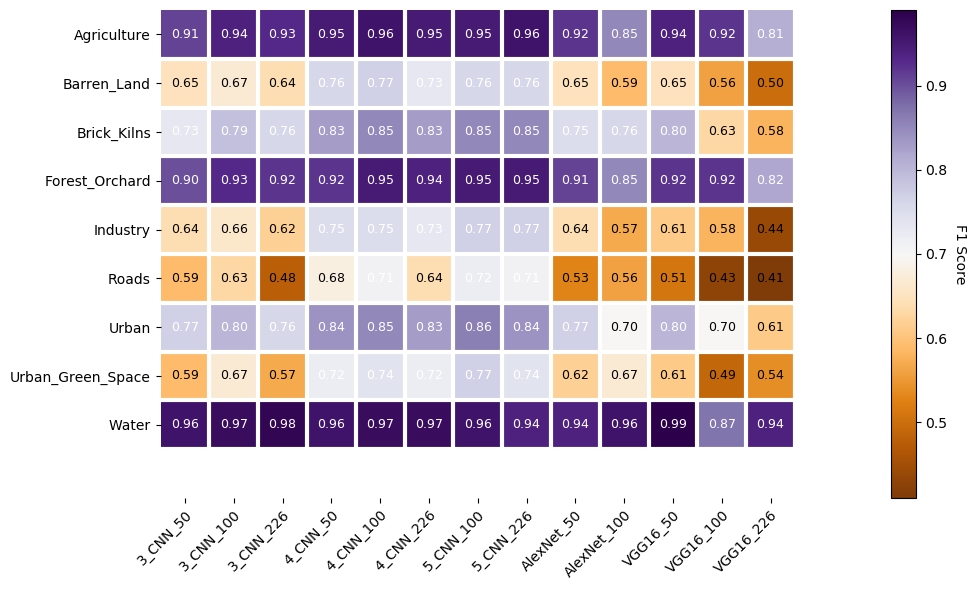
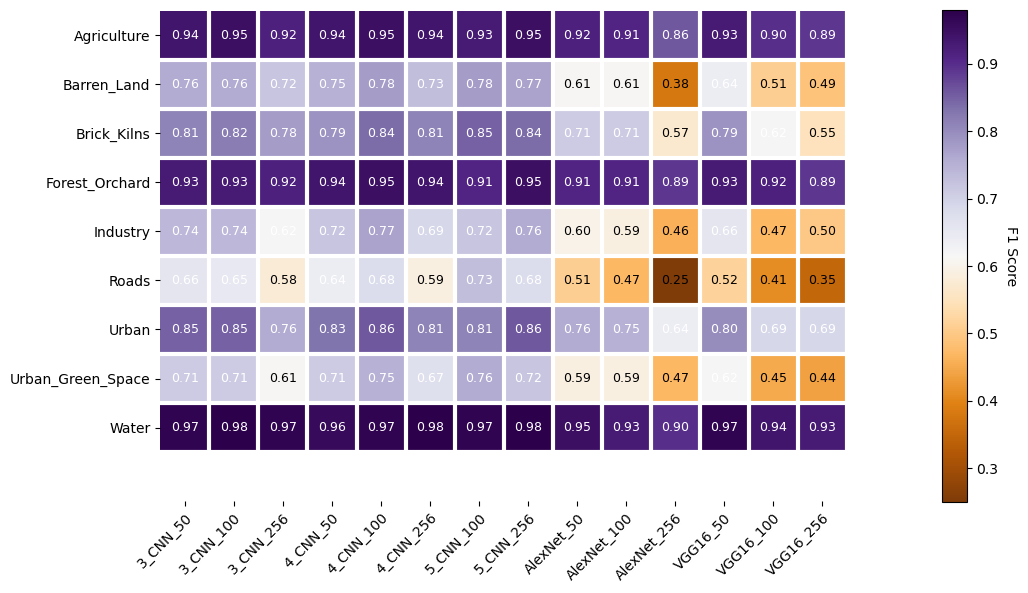
New 5_CNN 2 maxpool, 3 stride:2

diff --git a/plots/Interquartile_Display.py b/plots/Interquartile_Display.py
@@ -15,25 +15,25 @@ from pandas import DataFrame
 # agg backend is used to create plot as a .png file
 mpl.use('agg')
 
-CNN_3_test_acc_50 = [0.814085574, 0.829231352, 0.781143506, 0.801211662, 0.816736085]
-CNN_3_test_acc_100 = [0.840590685, 0.828095418, 0.842105263, 0.837182885, 0.850435441]
-CNN_3_test_acc_226 = [0.807648618, 0.831881863, 0.829988641, 0.807648618, 0.78227944]
-CNN_4_test_acc_50 = [0.863687997, 0.866717153, 0.860280197, 0.878076486, 0.876183264]
-CNN_4_test_acc_100 = [0.892086331, 0.875804619, 0.868610375, 0.880348353, 0.887163953]
-CNN_4_test_acc_226 = [0.866717153, 0.856493752, 0.863309353, 0.870882242, 0.868989019]
-CNN_5_test_acc_100 = [0.881105642, 0.87921242, 0.887542598, 0.879969708, 0.881484286]
-CNN_5_test_acc_226 = [0.887542598, 0.88262022, 0.883377509, 0.876561908, 0.883377509]
-AlexNet_50 = [0.819386596, 0.804998107, 0.824687618, 0.792124195, 0.829988641]
-AlexNet_100 = [0.7883377508519, 0.811813707, 0.796289284, 0.781143506, 0.795153351]
-AlexNet_226 = [0.71942446, 0.745550928, 0.671336615]
-VGG_50 = [0.817114729, 0.822415752, 0.80954184, 0.841726619, 0.84437713]
-VGG_100 = [0.790609618, 0.770162817, 0.773191973, 0.772056039, 0.765997728]
-VGG_226 = [0.705035971, 0.738356683, 0.726618705, 0.764861795, 0.726997349]
-data_to_plot = [CNN_3_test_acc_50, CNN_3_test_acc_100, CNN_3_test_acc_226,
-                CNN_4_test_acc_50, CNN_4_test_acc_100, CNN_4_test_acc_226,
-                CNN_5_test_acc_100, CNN_5_test_acc_226,
-                AlexNet_50, AlexNet_100, AlexNet_226,
-                VGG_50, VGG_100, VGG_226]
+CNN_3_test_acc_50 = [0.859256449, 0.878224583, 0.871396055, 0.863429439, 0.857359636]
+CNN_3_test_acc_100 = [0.883156297, 0.869499241, 0.861532625, 0.857738998, 0.87215478]
+CNN_3_test_acc_256 = [0.820940819, 0.820940819, 0.811456753, 0.817526555, 0.842943854]
+CNN_4_test_acc_50 = [0.847116844, 0.878603945, 0.797420334, 0.876707132, 0.876707132]
+CNN_4_test_acc_100 = [0.872534143, 0.880121396, 0.892640364, 0.881638847, 0.88353566]
+CNN_4_test_acc_256 = [0.836494689, 0.85660091, 0.851669196, 0.846358118, 0.867981791]
+CNN_5_test_acc_100 = [0.880121396, 0.889605463, 0.85508346, 0.889605463, 0.849772382]
+CNN_5_test_acc_256 = [0.886570561, 0.880880121, 0.857738998, 0.892261002, 0.887708649]
+AlexNet_50 = [0.819802731, 0.75, 0.797420334, 0.823596358, 0.793626707]
+AlexNet_100 = [0.789074355, 0.770106222, 0.812594841, 0.79400607, 0.81107739]
+AlexNet_256 = [0.718133536, 0.704097117, 0.713960546, 0.720030349, 0.712443096]
+VGG_50 = [0.836494689, 0.853566009, 0.79552352, 0.81676783, 0.845978756]
+VGG_100 = [0.781866464, 0.775037936, 0.695371775, 0.753793627, 0.751138088]
+VGG_256 = [0.752276176, 0.741654021, 0.745827011, 0.72723824, 0.737481032]
+data_to_plot = [CNN_3_test_acc_50, CNN_3_test_acc_100, CNN_3_test_acc_256,
+                CNN_4_test_acc_50, CNN_4_test_acc_100, CNN_4_test_acc_256,
+                CNN_5_test_acc_100, CNN_5_test_acc_256,
+                AlexNet_50, AlexNet_100, AlexNet_256,
+                VGG_50, VGG_100, VGG_256]
 
 # Create a figure instance
 fig = plt.figure(1, figsize=(17, 12))
@@ -75,11 +75,11 @@ for flier in bp['fliers']:
      flier.set(marker='o', color='#e7298a', alpha=0.5)
 
 # Custom x-axis labels
-ax.set_xticklabels(['3_CNN_50', '3_CNN_100', '3_CNN_226',
-                    '4_CNN_50', '4_CNN_100', '4_CNN_226',
-                    '5_CNN_100', '5_CNN_226',
-                    'AlexNet_50', 'AlexNet_100', 'AlexNet_226',
-                    'VGG_50', 'VGG_100', 'VGG_226'])
+ax.set_xticklabels(['3_CNN_50', '3_CNN_100', '3_CNN_256',
+                    '4_CNN_50', '4_CNN_100', '4_CNN_256',
+                    '5_CNN_100', '5_CNN_256',
+                    'AlexNet_50', 'AlexNet_100', 'AlexNet_256',
+                    'VGG_50', 'VGG_100', 'VGG_256'])
 
 # Custom axis labels
 ax.set_axisbelow(True)

diff --git a/plots/Heat_Map_F1Score_Class.py b/plots/Heat_Map_F1Score_Class.py
@@ -6,20 +6,19 @@ import matplotlib.pyplot as plt
 
 classes = ["Agriculture", "Barren_Land", "Brick_Kilns", "Forest_Orchard", "Industry", "Roads", "Urban",
           "Urban_Green_Space", "Water"]
-architectures = ['3_CNN_50', '3_CNN_100', '3_CNN_226', '4_CNN_50', '4_CNN_100', '4_CNN_226', '5_CNN_100', '5_CNN_226',
-                'AlexNet_50', 'AlexNet_100', 'VGG16_50', 'VGG16_100', 'VGG16_226']
+architectures = ['3_CNN_50', '3_CNN_100', '3_CNN_256', '4_CNN_50', '4_CNN_100', '4_CNN_256', '5_CNN_100', '5_CNN_256',
+                'AlexNet_50', 'AlexNet_100', 'AlexNet_256', 'VGG16_50', 'VGG16_100', 'VGG16_256']
 # f1_score = []
 
-
-f1_score = np.array([[0.91, 0.94, 0.93, 0.95, 0.96, 0.95, 0.95, 0.96, 0.92, 0.85, 0.94, 0.92, 0.81],
-                     [0.65, 0.67, 0.64, 0.76, 0.77, 0.73, 0.76, 0.76, 0.65, 0.59, 0.65, 0.56, 0.50],
-                     [0.73, 0.79, 0.76, 0.83, 0.85, 0.83, 0.85, 0.85, 0.75, 0.76, 0.80, 0.63, 0.58],
-                     [0.90, 0.93, 0.92, 0.92, 0.95, 0.94, 0.95, 0.95, 0.91, 0.85, 0.92, 0.92, 0.82],
-                     [0.64, 0.66, 0.62, 0.75, 0.75, 0.73, 0.77, 0.77, 0.64, 0.57, 0.61, 0.58, 0.44],
-                     [0.59, 0.63, 0.48, 0.68, 0.71, 0.64, 0.72, 0.71, 0.53, 0.56, 0.51, 0.43, 0.41],
-                     [0.77, 0.80, 0.76, 0.84, 0.85, 0.83, 0.86, 0.84, 0.77, 0.70, 0.80, 0.70, 0.61],
-                     [0.59, 0.67, 0.57, 0.72, 0.74, 0.72, 0.77, 0.74, 0.62, 0.67, 0.61, 0.49, 0.54],
-                     [0.96, 0.97, 0.98, 0.96, 0.97, 0.97, 0.96, 0.94, 0.94, 0.96, 0.99, 0.87, 0.94]])
+f1_score = np.array([[0.94, 0.95, 0.92, 0.94, 0.95, 0.94, 0.93, 0.95, 0.92, 0.91, 0.86, 0.93, 0.90, 0.89],
+                     [0.76, 0.76, 0.72, 0.75, 0.78, 0.73, 0.78, 0.77, 0.61, 0.61, 0.38, 0.64, 0.51, 0.49],
+                     [0.81, 0.82, 0.78, 0.79, 0.84, 0.81, 0.85, 0.84, 0.71, 0.71, 0.57, 0.79, 0.62, 0.55],
+                     [0.93, 0.93, 0.92, 0.94, 0.95, 0.94, 0.91, 0.95, 0.91, 0.91, 0.89, 0.93, 0.92, 0.89],
+                     [0.74, 0.74, 0.62, 0.72, 0.77, 0.69, 0.72, 0.76, 0.60, 0.59, 0.46, 0.66, 0.47, 0.50],
+                     [0.66, 0.65, 0.58, 0.64, 0.68, 0.59, 0.73, 0.68, 0.51, 0.47, 0.25, 0.52, 0.41, 0.35],
+                     [0.85, 0.85, 0.76, 0.83, 0.86, 0.81, 0.81, 0.86, 0.76, 0.75, 0.64, 0.80, 0.69, 0.69],
+                     [0.71, 0.71, 0.61, 0.71, 0.75, 0.67, 0.76, 0.72, 0.59, 0.59, 0.47, 0.62, 0.45, 0.44],
+                     [0.97, 0.98, 0.97, 0.96, 0.97, 0.98, 0.97, 0.98, 0.95, 0.93, 0.90, 0.97, 0.94, 0.93]])
 
 
 def heatmap(data, row_labels, col_labels, ax=None,

diff --git a/Main.py b/Main.py
@@ -34,7 +34,7 @@ wandb.init(project="ssrp")
 import os
 import csv
 import models
-from models.Deep_Architectures import CNN_3_Net, CNN_4_Net, CNN_5_Net, AlexNet, VGG16
+from models.Deep_Architectures import CNN_3_Net, CNN_4_Net, CNN_5_Net, CNN_5_Net_2, AlexNet, VGG16
 
 
 def arguments():
@@ -47,7 +47,7 @@ def arguments():
     parser.add_argument("--height", type=int, default=50)
     parser.add_argument("--width", type=int, default=50)
     parser.add_argument("--architecture", type=int, default=1, help="1. 3_CNN, 2. 4_CNN, 3. 5_CNN, 4. AlexNet, "
-                                                                    "5. VGG16")
+                                                                    "5. VGG16, 6. 5_CNN_2")
     parser.add_argument("--load-model", default=False)
     parser.add_argument("--random-state", type=int, default=21)
 
@@ -153,8 +153,10 @@ def main():
         net = CNN_5_Net(input_size).to(device)
     elif args.architecture == 4:
         net = AlexNet(input_size).to(device)
-    else:
+    elif args.architecture == 5:
         net = VGG16(input_size).to(device)
+    else:
+        net = CNN_5_Net_2(input_size).to(device)
 
     print(net)
     optimizer = optim.Adam(net.parameters(), lr=0.001)

diff --git a/models/Deep_Architectures.py b/models/Deep_Architectures.py
@@ -97,6 +97,36 @@ class CNN_5_Net(nn.Module):
         return x
 
 
+class CNN_5_Net_2(nn.Module):
+    def __init__(self, input_size):
+        super().__init__()
+
+        self.conv1, input_size = conv(input_size[0], 32, 3, input_size)
+        self.conv2, input_size = conv_2(input_size[0], 64, 3, input_size)
+        self.conv3, input_size = conv_2(input_size[0], 128, 3, input_size)
+        self.conv4, input_size = conv_2(input_size[0], 256, 3, input_size)
+        self.conv5, input_size = conv(input_size[0], 512, 3, input_size)
+
+        input_size_flattened = np.product(input_size)
+        self.fc1 = nn.Linear(input_size_flattened, 1024)
+        self.fc2 = nn.Linear(1024, 10)
+
+    def convs(self, x):
+        x = self.conv1(x)
+        x = self.conv2(x)
+        x = self.conv3(x)
+        x = self.conv4(x)
+        x = self.conv5(x)
+        return x
+
+    def forward(self, x):
+        x = self.convs(x)
+        x = x.flatten(start_dim=1)
+        x = F.relu(self.fc1(x))
+        x = self.fc2(x)
+        return x
+
+
 class AlexNet(nn.Module):
     def __init__(self, input_size):
         super().__init__()

diff --git a/models/Layers.py b/models/Layers.py
@@ -59,7 +59,7 @@ class ConvLayer(nn.Module):
 
         return conv_block, (out_channels, out_h, out_w)
 
-    def _add_layer2(in_channels, out_channels, kernel_size, _input_size, stride=1, padding=0, dilation=1):
+    def _add_layer2(in_channels, out_channels, kernel_size, _input_size, stride=2, padding=0, dilation=1):
         """
         :param out_channels:
         :param kernel_size:
